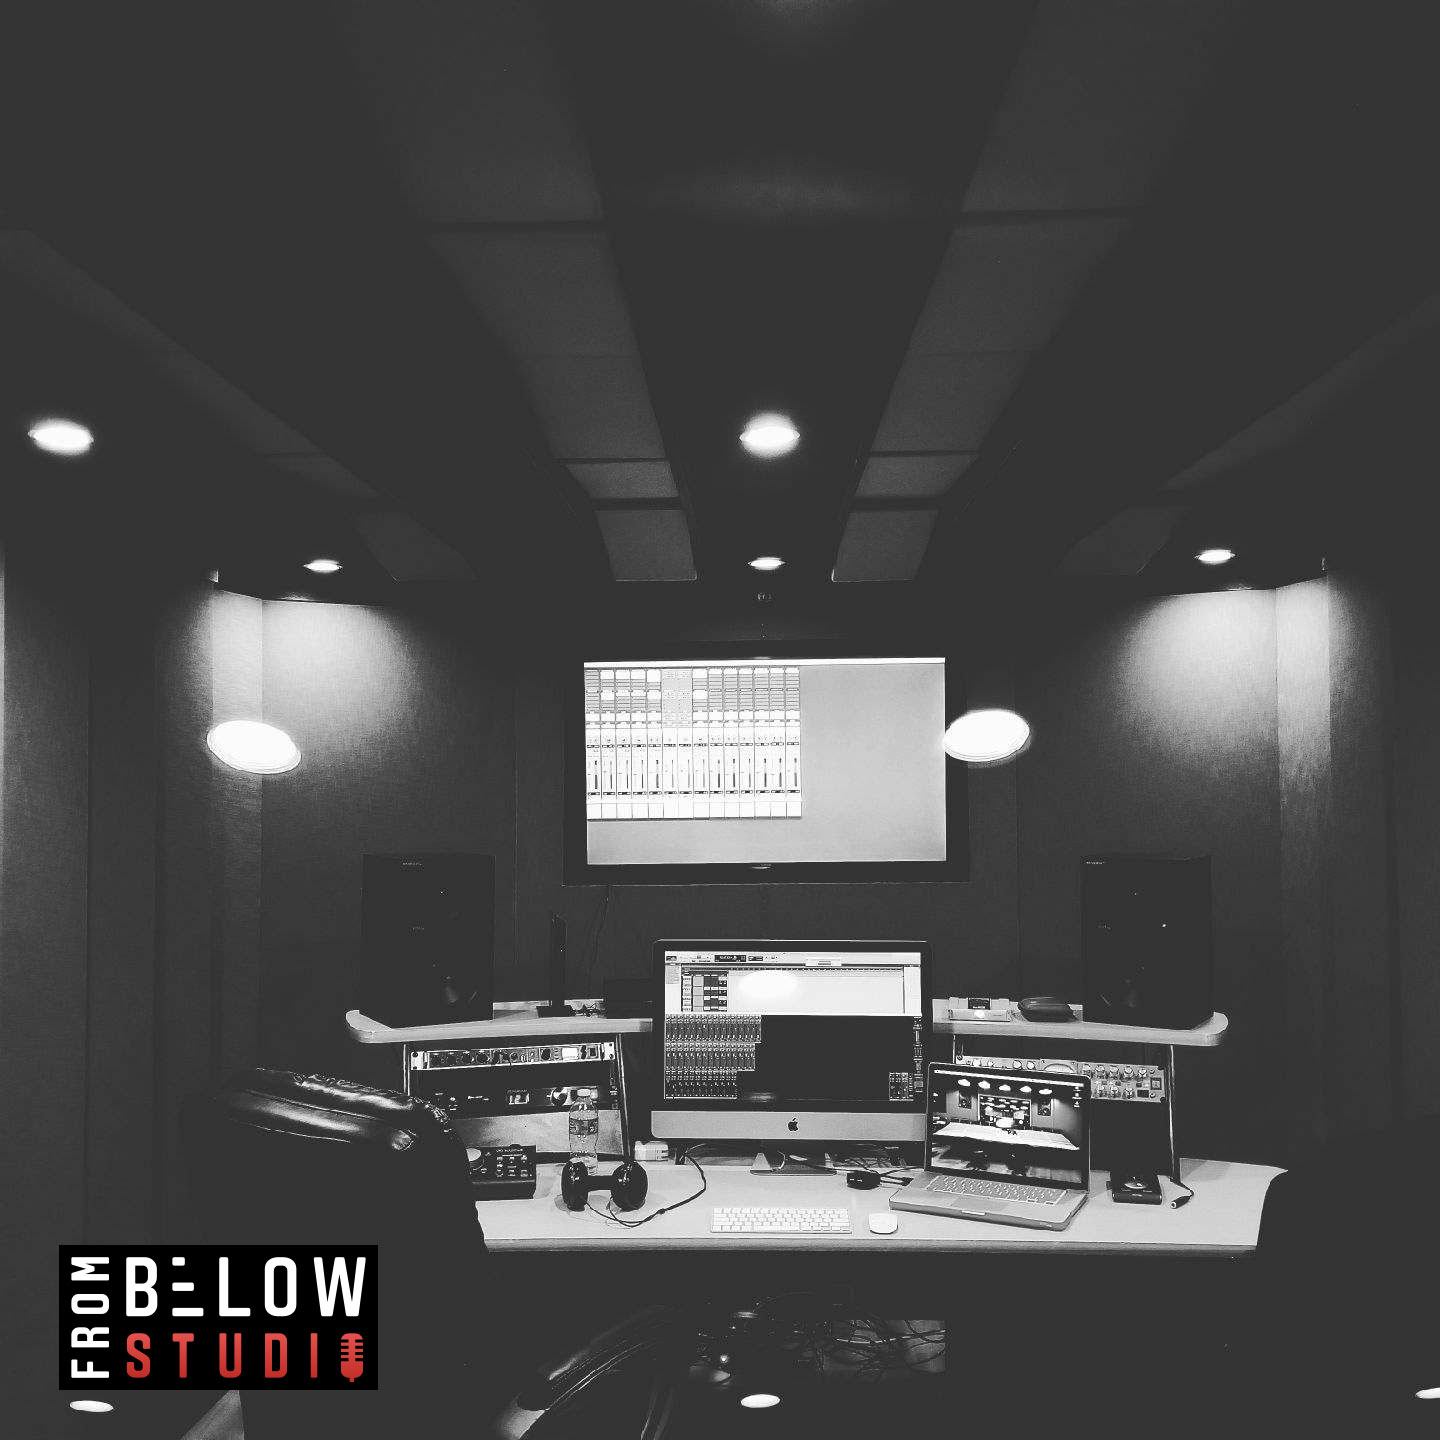
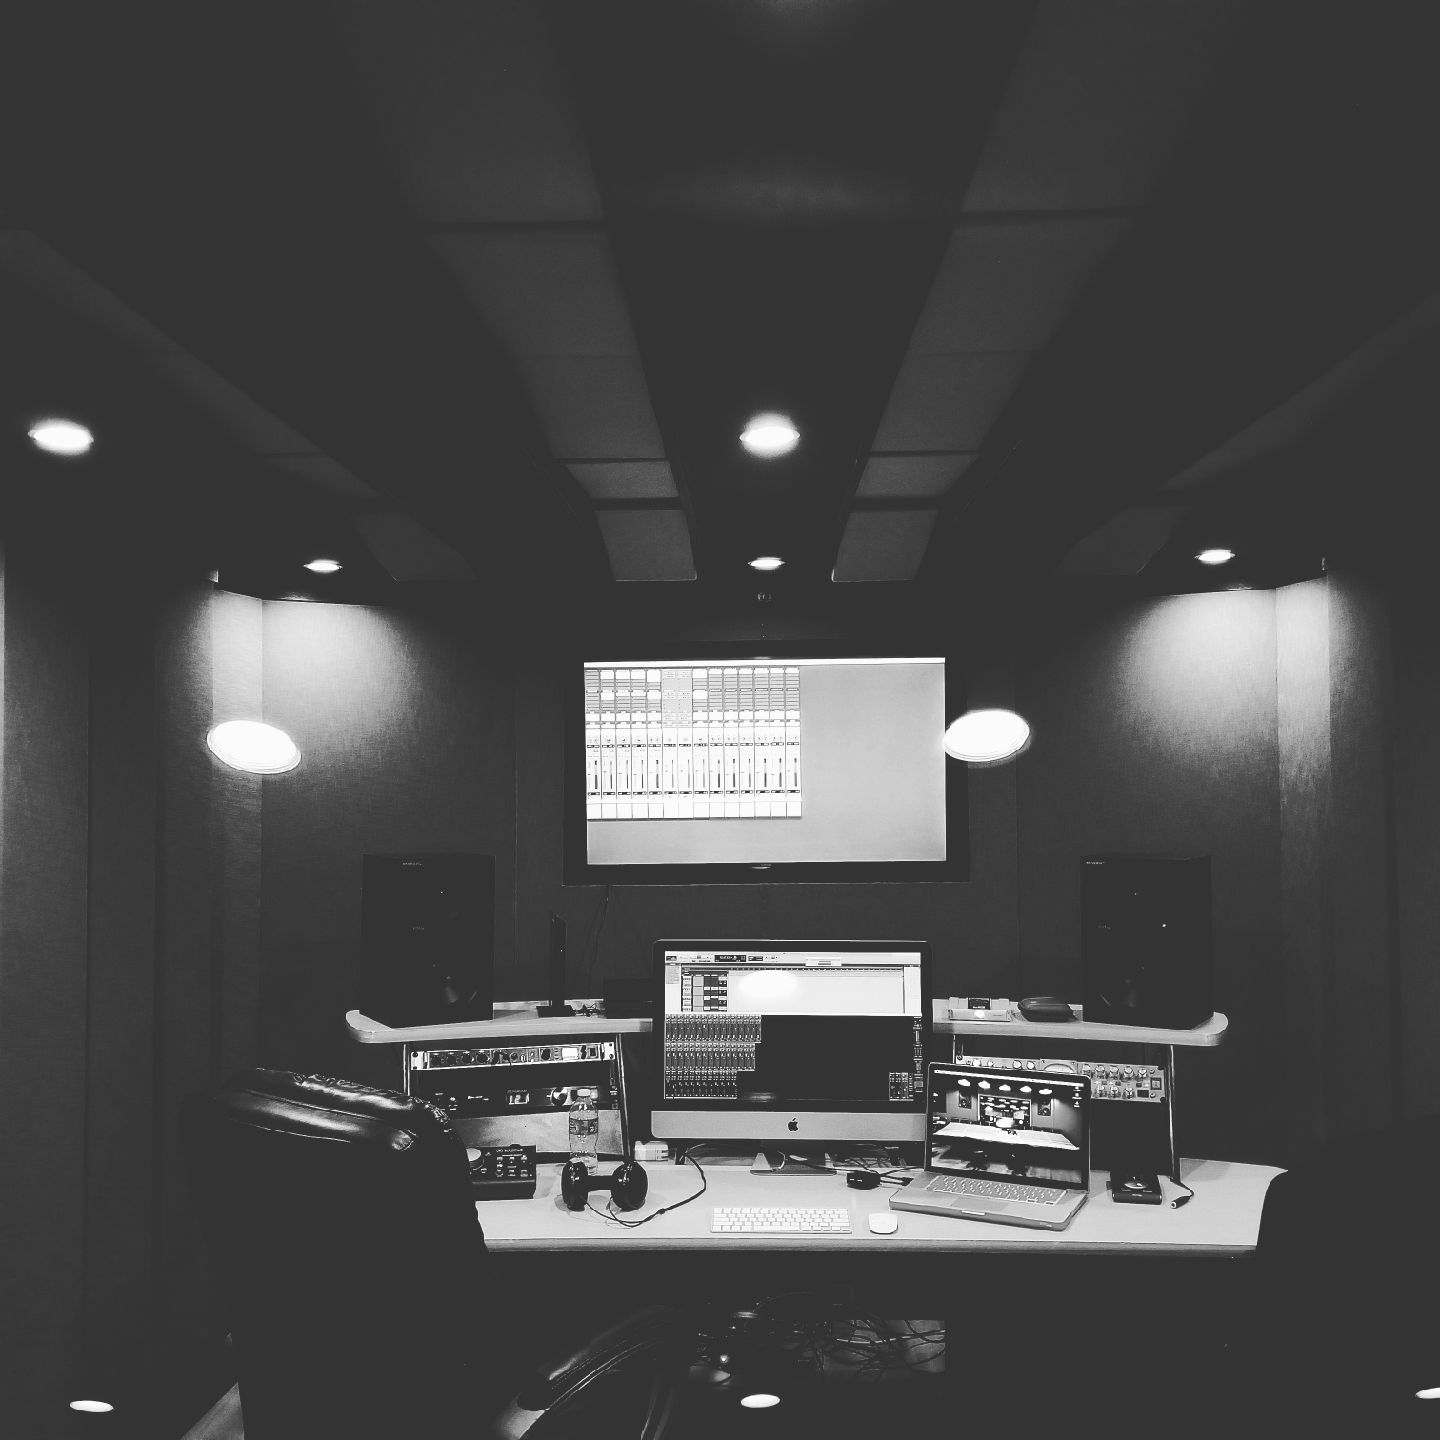
Changed HP image back

Changed region(s): [[0.0312, 0.8438, 0.2812, 0.9688]]

diff --git a/template-parts/content-page.php b/template-parts/content-page.php
@@ -341,9 +341,9 @@
                         "items": [{
                             "width": 1440,
                             "height": 1440,
-                            "fileName": "597403f72e734d4747106efd_IMG_20170722_142734_347_1500772896518.jpg",
-                            "origFileName": "IMG_20170722_142734_347_1500772896518.jpg",
-                            "url": "<?php bloginfo('template_url');?>/images/IMG_20170722_142734_347_1500772896518.jpg",
+                            "fileName": "597403f72e734d4747106efd_IMG_20170722_142734_347_1500772896518-logo.jpg",
+                            "origFileName": "IMG_20170722_142734_347_1500772896518-logo.jpg",
+                            "url": "<?php bloginfo('template_url');?>/images/IMG_20170722_142734_347_1500772896518-logo.jpg",
                             "_id": "597403f72e734d4747106efd",
                             "type": "image",
                             "fileSize": 114332
